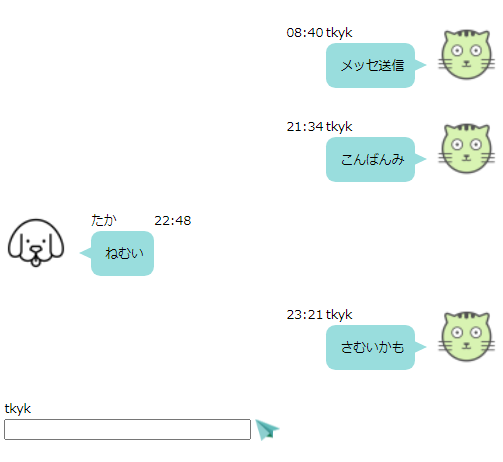
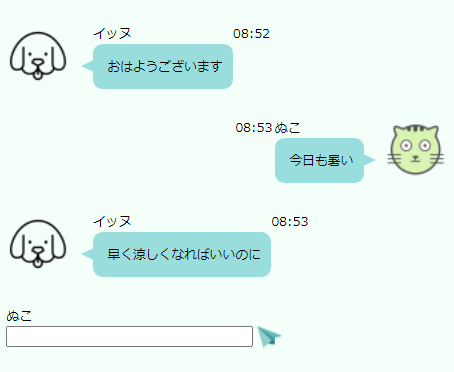
fix readme

diff --git a/src/Chat1.tsx b/src/Chat1.tsx
@@ -2,12 +2,12 @@ import React, {useState, useMemo, useEffect} from 'react';
 import db from './firebaseConfig';
 import './chat1.css';
 
-type Log = {
+type ChatLog = {
   key: string,
   name: string,
   msg: string,
   date: Date,
-}
+};
 
 
 /**
@@ -38,7 +38,7 @@ function getStrTime(time: any){
  * チャットコンポーネント(Line風)
  */
 const Chat1: React.FC = () => {
-  const [logs, setLogs] = useState<Log[]>([]);
+  const [chatLogs, setChatLogs] = useState<ChatLog[]>([]);
   const [msg, setMsg] = useState('');
   const userName = useMemo(() => getUName(), []);
   const messagesRef = useMemo(() => db.collection("chatroom").doc("room1").collection("messages"), []);
@@ -48,8 +48,9 @@ const Chat1: React.FC = () => {
     messagesRef.orderBy("date", "desc").limit(10).onSnapshot((snapshot) => {
       snapshot.docChanges().forEach((change) => {
         if (change.type === "added") {
-          // 追加
+          // チャットログへ追加
           addLog(change.doc.id, change.doc.data());
+          // 画面下部へスクロール
           window.scroll(0, document.documentElement.scrollHeight - document.documentElement.clientHeight)
         }
       });
@@ -65,8 +66,8 @@ const Chat1: React.FC = () => {
       key: id,
       ...data,
     };
-    // 時間順に並べるためsort
-    setLogs((prev) => [ ...prev, log,].sort( (a,b) => a.date.valueOf() - b.date.valueOf()));
+    // Firestoreから取得したデータは時間降順のため、表示前に昇順に並び替える
+    setChatLogs((prev) => [...prev, log,].sort((a,b) => a.date.valueOf() - b.date.valueOf()));
   }
 
   /**
@@ -88,8 +89,9 @@ const Chat1: React.FC = () => {
 
   return (
     <>
+      {/* チャットログ */}
       <div>      
-        {logs.map((item, i) => (
+        {chatLogs.map((item, i) => (
           <div className={userName===item.name? 'balloon_r': 'balloon_l'} key={item.key}>
             {userName===item.name? getStrTime(item.date): '' }
             <div className="faceicon">
@@ -102,7 +104,8 @@ const Chat1: React.FC = () => {
           </div>
         ))}
       </div>
-
+      
+      {/* メッセージ入力 */}
       <form className='chatform' onSubmit={e => { submitMsg();e.preventDefault() }}>
         <div>{userName}</div>       
           <input type="text" value={msg} onChange={(e) => setMsg(e.target.value)} />

diff --git a/src/chat1.css b/src/chat1.css
@@ -58,6 +58,10 @@
   border-left: 22px solid #99dddd;
 }
 
+body {
+  background-color:mintcream;
+}
+
 /* 追加分(form) */
 .chatform input[type="text"] {
   width: 300px;

diff --git a/README.md b/README.md
@@ -1,8 +1,11 @@
-# リアルタイム同期チャットアプリ(React + Firestore)
+# リアルタイムなLine風チャットアプリ(React + Firestore)
 
+[github firebase-realtime-chat1](https://github.com/murasuke/firebase-realtime-chat1)
 ## はじめに
 
-![chat](./img/chat.png)
+* 画面イメージ
+
+  ![chat](./img/chat.png)
 
 * Line風のチャットアプリです(複数人の投稿がリアルタイムに更新されます)
 * 利用のためには[Firestore](https://firebase.google.com/)アカウントが必要です(googleのアカウントがあれば利用できます)
@@ -11,4 +14,296 @@
 * React + firebaseのSDKを利用します
 
 
+## 利用モジュール
 
+create-react-app ＋ firebase のSDKのみです。
+
+```json
+  "dependencies": {
+    "@types/node": "^12.0.0",
+    "@types/react": "^17.0.0",
+    "@types/react-dom": "^17.0.0",
+    "firebase": "^8.8.0",
+    "react": "^17.0.2",
+    "react-dom": "^17.0.2",
+    "react-scripts": "4.0.3",
+    "typescript": "^4.1.2"
+  }
+```
+
+## Firestoreについて
+
+[Firebase](https://firebase.google.com/?hl=ja)とは、Google が提供しているモバイル、Webアプリ向けのバックエンドサービスです。Firestoreというリアルタイムで同期ができるNoSQLデータベースを利用します。
+
+
+Firebaseプロジェクトの作成方法は下記の外部ページでご確認ください。
+
+[[Firebase] プロジェクトを新規に作成する](https://blog.katsubemakito.net/firebase/firebase-make-newproject)
+
+
+### Firestore接続設定
+
+`.env`ファイルで設定します。
+
+設定する内容はfirebaseのコンソールから確認します。
+  
+  ![firebase-console](./img/firebase_config.png)
+
+* .env
+
+```bash
+#Firebase configuration
+REACT_APP_API_KEY=XXXXXXXXXXXXXXXXXXX
+REACT_APP_AUTH_DOMAIN=myfirstproject-2b5c3.firebaseapp.com
+REACT_APP_PROJECT_ID=myfirstproject-2b5c3
+REACT_APP_STORAGE_BUCKET=myfirstproject-2b5c3.appspot.com
+REACT_APP_MESSAGEING_SENDER_ID=XXXXXXXXXXXXXXXXXXX
+REACT_APP_APP_ID=XXXXXXXXXXXXXXXXXXX
+```
+
+
+* firebaseConfig.ts
+
+```typescript
+import firebase from 'firebase';
+
+const firebaseConfig = {
+  apiKey: process.env.REACT_APP_API_KEY,
+  authDomain: process.env.REACT_APP_AUTH_DOMAIN,
+  projectId: process.env.REACT_APP_PROJECT_ID,
+  storageBucket: process.env.REACT_APP_STORAGE_BUCKET,
+  messagingSenderId: process.env.REACT_APP_MESSAGEING_SENDER_ID,
+  appId: process.env.REACT_APP_APP_ID,
+};
+
+const firebaseApp = firebase.initializeApp(firebaseConfig);
+const db = firebaseApp.firestore();
+const auth = firebaseApp.auth();
+
+export { auth };
+export default db;
+```
+
+
+## ソースコード
+
+Line風の見た目は[CSSだけでLINE風の「吹き出し」を作る方法](https://stand-4u.com/css/fukidashi.html)を参考にさせていただきました。
+
+### html部分
+
+チャットログは`ChatLog`型の配列です。自分の名前のログを右側に、他人を左側に表示するようにclass名を切り替えています。
+```typescript
+type ChatLog = {
+  key: string,
+  name: string,
+  msg: string,
+  date: Date,
+};
+```
+* Chat1.tsx
+
+```typescript
+<>
+  {/* チャットログ */}
+  <div>      
+    {chatLogs.map((item, i) => (
+      <div className={userName===item.name? 'balloon_r': 'balloon_l'} key={item.key}>
+        {userName===item.name? getStrTime(item.date): '' }
+        <div className="faceicon">
+          <img src={userName===item.name? './img/cat.png': './img/dog.png'} alt="" />
+        </div>
+        <div style={{marginLeft: '3px'}}>
+          {item.name}<p className="says">{item.msg}</p>
+        </div>
+        {userName===item.name? '': getStrTime(item.date)}
+      </div>
+    ))}
+  </div>
+  
+  {/* メッセージ入力 */}
+  <form className='chatform' onSubmit={e => { submitMsg();e.preventDefault() }}>
+    <div>{userName}</div>       
+      <input type="text" value={msg} onChange={(e) => setMsg(e.target.value)} />
+      <input type='image' onClick={submitMsg} src='./img/airplane.png' alt='' />       
+  </form>
+</>
+```
+
+
+### データ同期処理
+
+簡略化のため保存するテーブル名(collection)は固定です。
+
+チャットルームのリファレンス(`messagesRef`)を取得して、最新10件を取得します。
+
+`onSnapshot()`で変更イベントを受け取ります。別の人が追加したチャットメッセージを受け取り、ログに追加します。
+
+   * 削除、更新イベントも発生しますが、動作に影響ないため追加のみを処理します。
+
+```typescript
+  const [chatLogs, setChatLogs] = useState<ChatLog[]>([]);
+  const messagesRef = useMemo(() => db.collection("chatroom").doc("room1").collection("messages"), []);
+
+  useEffect( () => {
+    // 同期処理イベント（最新10件をとるためdateでソート)
+    messagesRef.orderBy("date", "desc").limit(10).onSnapshot((snapshot) => {
+      snapshot.docChanges().forEach((change) => {
+        if (change.type === "added") {
+          // チャットログへ追加
+          addLog(change.doc.id, change.doc.data());
+          // 画面下部へスクロール
+          window.scroll(0, document.documentElement.scrollHeight - document.documentElement.clientHeight)
+        }
+      });
+    });
+  },[]);
+```
+
+### チャットメッセージ追加処理
+
+```typescript
+  /**
+   * チャットログに追加
+   */
+  function addLog(id: string, data: any) {
+    const log = {
+      key: id,
+      ...data,
+    };
+    // Firestoreから取得したデータは時間降順のため、表示前に昇順に並び替える
+    setChatLogs((prev) => [...prev, log,].sort((a,b) => a.date.valueOf() - b.date.valueOf()));
+  }
+```
+
+## ソースコード全体
+
+```typescript
+import React, {useState, useMemo, useEffect} from 'react';
+import db from './firebaseConfig';
+import './chat1.css';
+
+type ChatLog = {
+  key: string,
+  name: string,
+  msg: string,
+  date: Date,
+};
+
+
+/**
+ * ユーザー名 (localStrageに保存)
+ **/
+const getUName = (): string =>  {
+  const userName = localStorage.getItem('firebase-Chat1-username');
+  if (!userName) {
+    const inputName = window.prompt('ユーザー名を入力してください', '');
+    if (inputName){
+      localStorage.setItem('firebase-Chat1-username', inputName);
+      return inputName;
+    }    
+  }
+  return userName;
+}
+
+/**
+ * UNIX TIME => hh:mm
+ **/
+function getStrTime(time: any){
+  let t = new Date(time);
+  return `${t.getHours()}`.padStart(2, '0') + ':' + `${t.getMinutes()}`.padStart(2, '0');
+}
+
+
+/**
+ * チャットコンポーネント(Line風)
+ */
+const Chat1: React.FC = () => {
+  const [chatLogs, setChatLogs] = useState<ChatLog[]>([]);
+  const [msg, setMsg] = useState('');
+  const userName = useMemo(() => getUName(), []);
+  const messagesRef = useMemo(() => db.collection("chatroom").doc("room1").collection("messages"), []);
+
+  useEffect( () => {
+    // 同期処理イベント（最新10件をとるためdateでソート)
+    messagesRef.orderBy("date", "desc").limit(10).onSnapshot((snapshot) => {
+      snapshot.docChanges().forEach((change) => {
+        if (change.type === "added") {
+          // チャットログへ追加
+          addLog(change.doc.id, change.doc.data());
+          // 画面下部へスクロール
+          window.scroll(0, document.documentElement.scrollHeight - document.documentElement.clientHeight)
+        }
+      });
+    });
+  // eslint-disable-next-line react-hooks/exhaustive-deps
+  },[]);
+  
+  /**
+   * チャットログに追加
+   */
+  function addLog(id: string, data: any) {
+    const log = {
+      key: id,
+      ...data,
+    };
+    // Firestoreから取得したデータは時間降順のため、表示前に昇順に並び替える
+    setChatLogs((prev) => [...prev, log,].sort((a,b) => a.date.valueOf() - b.date.valueOf()));
+  }
+
+  /**
+   * メッセージ送信
+   */
+  const submitMsg = async () => {
+    if (msg.length === 0) {
+      return;
+    }
+
+    messagesRef.add({
+      name: userName,
+      msg: msg,
+      date: new Date().getTime(),
+    });
+
+    setMsg("");
+  };
+
+  return (
+    <>
+      {/* チャットログ */}
+      <div>      
+        {chatLogs.map((item, i) => (
+          <div className={userName===item.name? 'balloon_r': 'balloon_l'} key={item.key}>
+            {userName===item.name? getStrTime(item.date): '' }
+            <div className="faceicon">
+              <img src={userName===item.name? './img/cat.png': './img/dog.png'} alt="" />
+            </div>
+            <div style={{marginLeft: '3px'}}>
+              {item.name}<p className="says">{item.msg}</p>
+            </div>
+            {userName===item.name? '': getStrTime(item.date)}
+          </div>
+        ))}
+      </div>
+      
+      {/* メッセージ入力 */}
+      <form className='chatform' onSubmit={e => { submitMsg();e.preventDefault() }}>
+        <div>{userName}</div>       
+          <input type="text" value={msg} onChange={(e) => setMsg(e.target.value)} />
+          <input type='image' onClick={submitMsg} src='./img/airplane.png' alt='' />       
+      </form>
+    </>
+  );
+};
+
+export default Chat1;
+
+```
+
+## 参考ページ
+[[Firebase] プロジェクトを新規に作成する](https://blog.katsubemakito.net/firebase/firebase-make-newproject)
+
+[[Firebase] Firestoreで読み書きする (Web編)](https://blog.katsubemakito.net/firebase/firestore_readwrite_1)
+
+[[Firebase] Firestoreでリアルタイムなチャットを作る (Web編) その1](https://blog.katsubemakito.net/firebase/firestore_realtime_1)
+
+[CSSだけでLINE風の「吹き出し」を作る方法](https://stand-4u.com/css/fukidashi.html)
